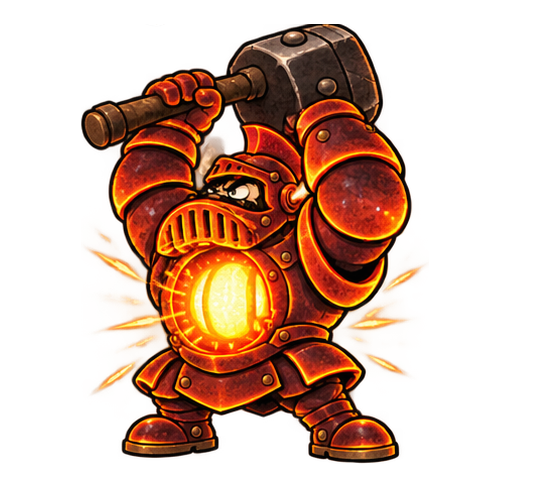
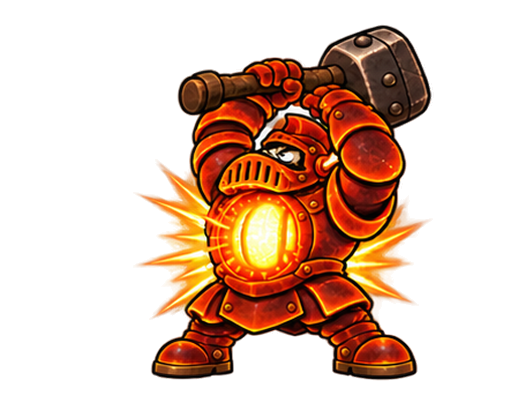
feat: armadura do Bigorna redesenhada com um martelo só
A folha antiga tinha um martelo nas costas em todos os quadros (dois ou
três martelos na tela). Folha nova com margem entre os quadros; a antiga
fica como bigorna_armadura_v1.png.

diff --git a/tools/cut_volcano_final_art.py b/tools/cut_volcano_final_art.py
@@ -50,7 +50,7 @@ def main():
         ("arremesso", 4, 1, 4, 0.78, "throw"),
         ("fole", 4, 1, 4, 0.78, "bellows"),
         ("andando", 4, 2, 8, 1.0, "walk"),
-        ("armadura", 4, 2, 8, 1.22, "armor"),
+        ("armadura", 4, 2, 8, 1.38, "armor"),  # v2 (08/10/2026): sem martelo nas costas, desenho menor na célula
         ("derrota", 4, 1, 4, 0.78, "defeat"),
     ]
     for sheet, cols, rows, n, scale, name in forge_animations:
